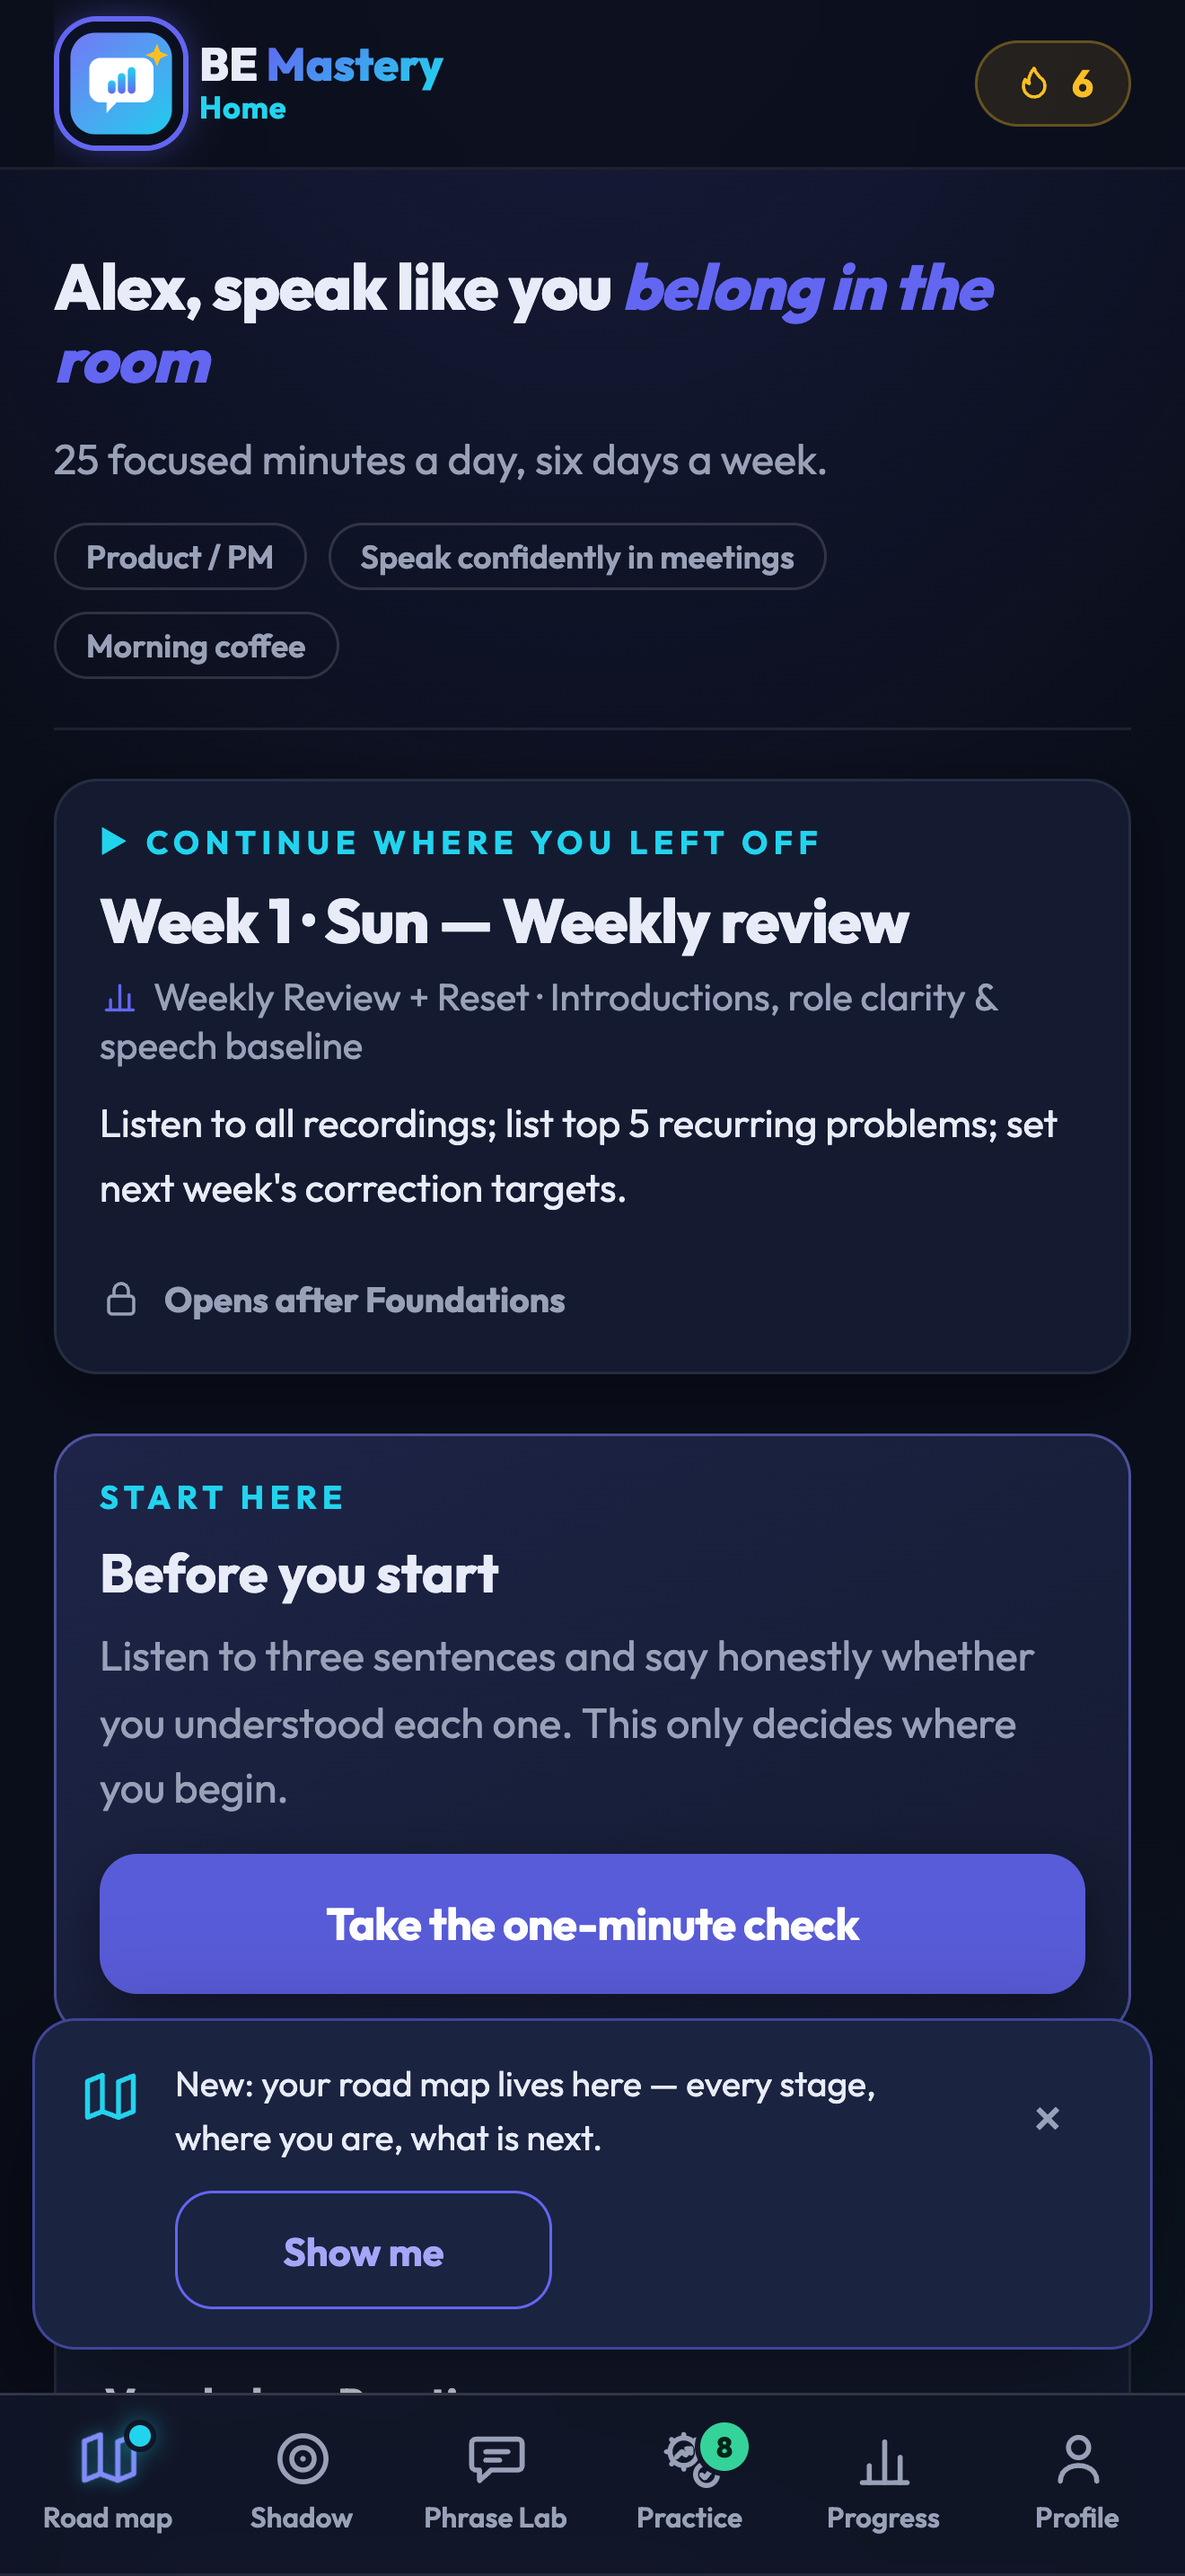
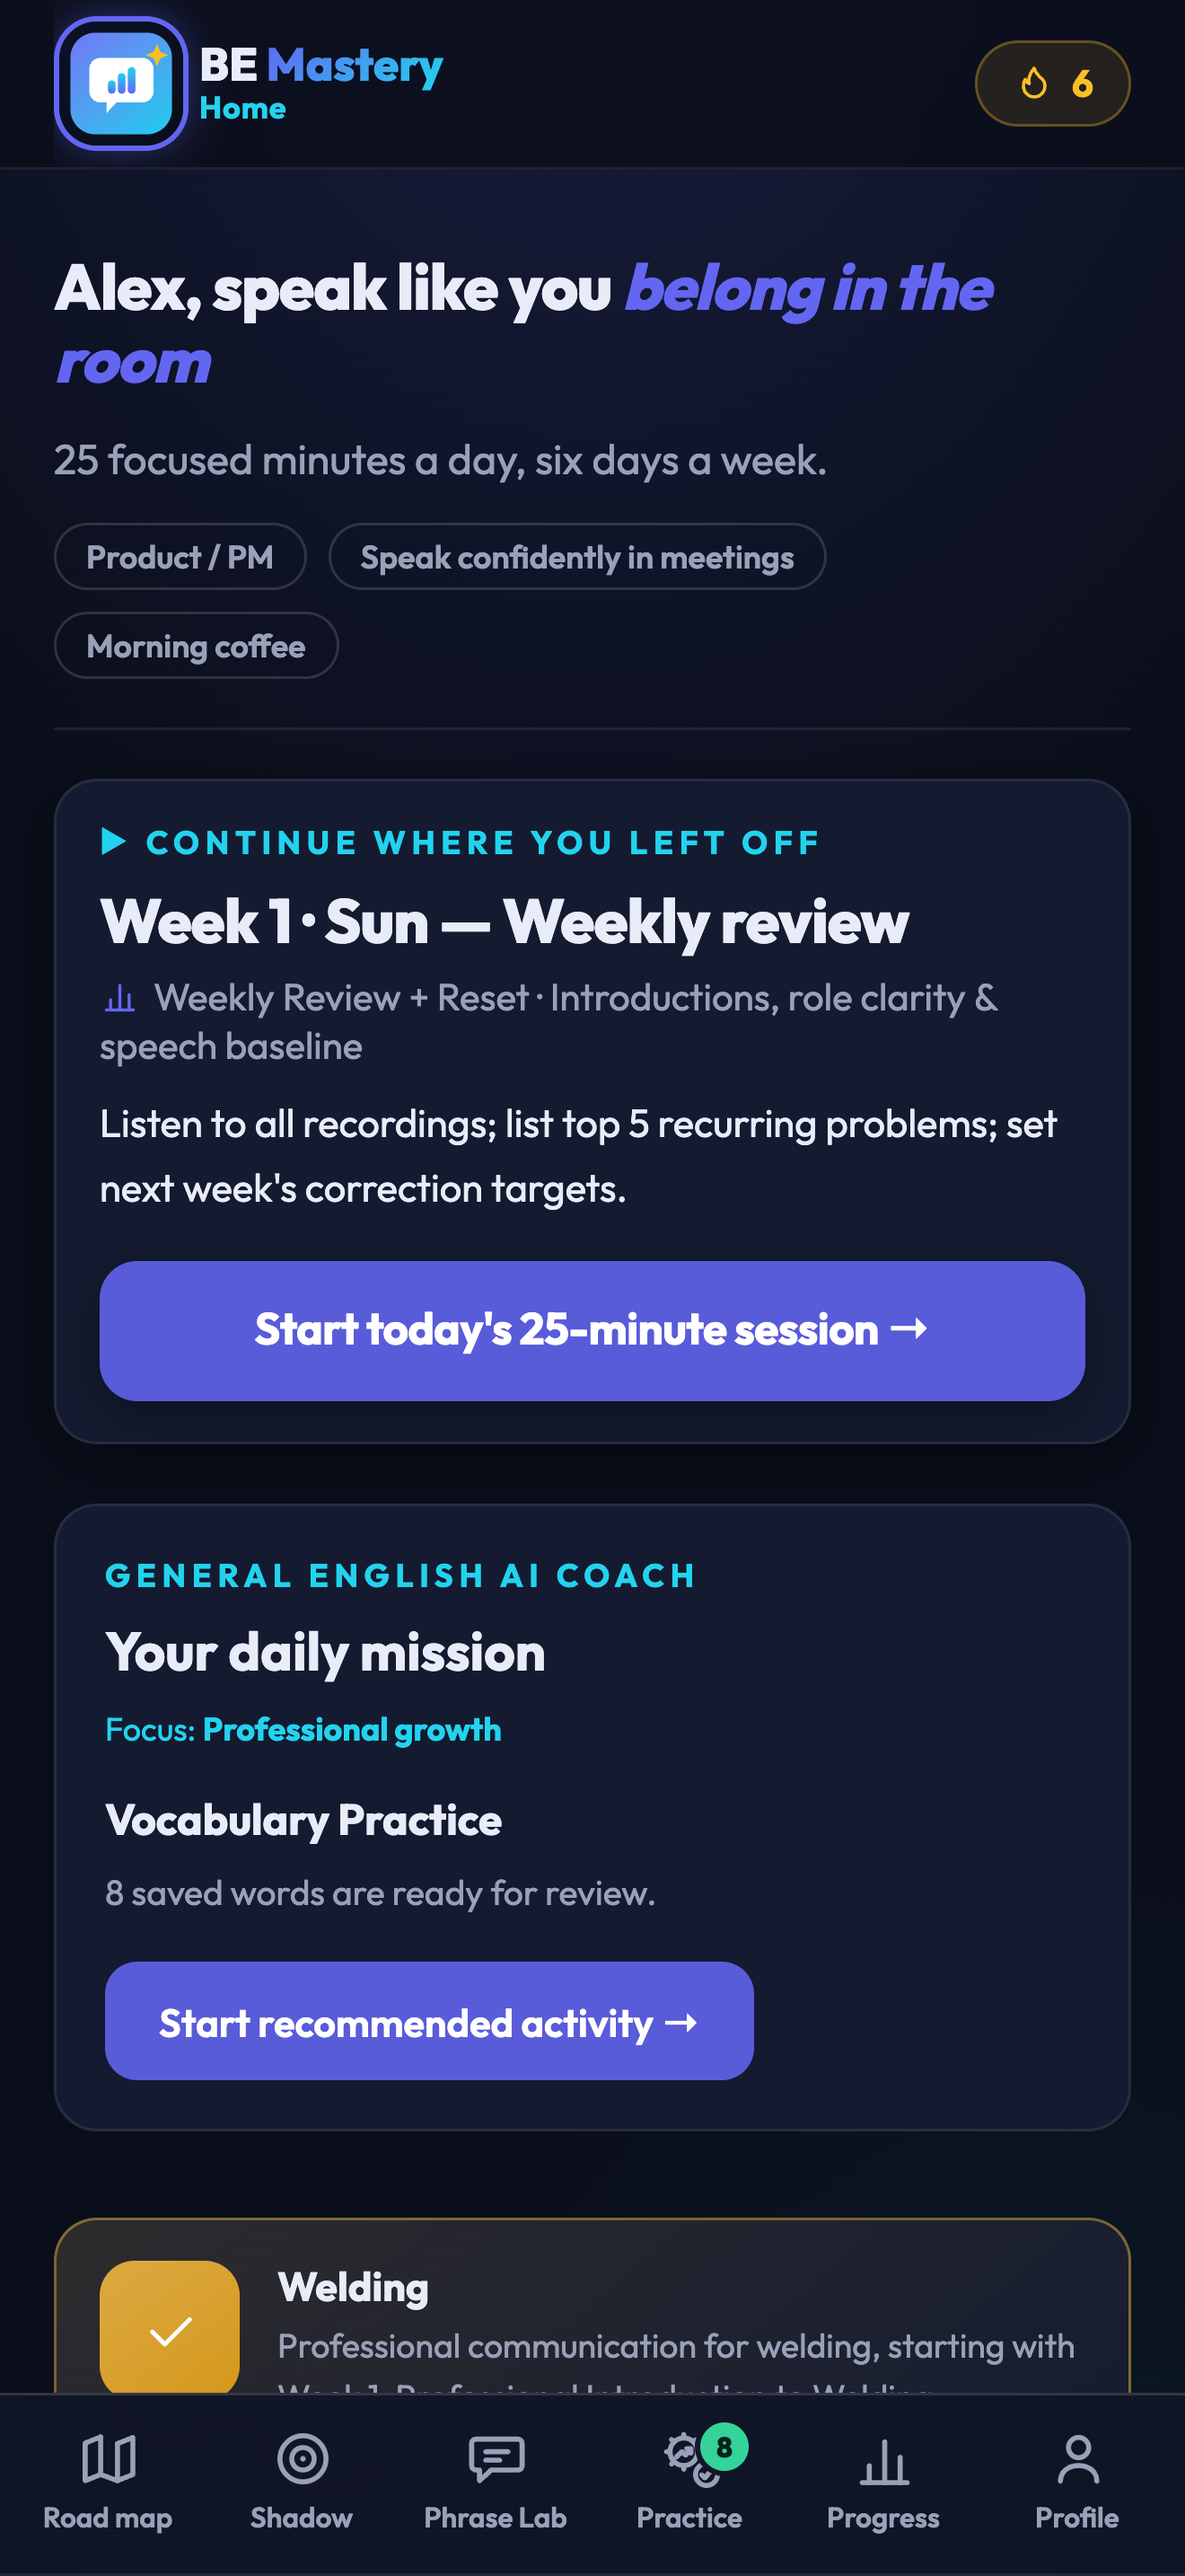
feat(ios): App Store screenshots re-taken on the release build, plus two Practice Partner scenes
scripts/store-art/shoot.js — opt-in PARTNER=1 scenes (08 find a partner,
09 candidate card) shot as real UI against a local be-partner Worker
(DEV_AUTH: "Alex" consented, "Sam" in line); the seed now passes the
placement check and marks the one-time nudges as seen (otherwise the
Practice tab and the partner page show the Foundations gate); transient
toasts are hidden before every capture. No mock data in the page: every
number comes from the app or the Worker.

mobile/ios/appstore/screenshots/iphone-6.9/ — all nine at 1320×2868 from
the release branch (01 dashboard, 02 road map, 03 phrases, 04 progress,
05 session, 06 practice with the Practice Partner card, 07 trend,
08 partner, 09 match), each checked by eye. Shadow Studio / Challenge stay
absent on purpose (third-party YouTube artwork) — SCREENSHOTS.md.

Changed region(s): [[0.0, 0.4655, 0.9939, 0.962]]

diff --git a/scripts/store-art/shoot.js b/scripts/store-art/shoot.js
@@ -47,11 +47,21 @@ const SHOTS = [
   // third-party YouTube artwork, and the one that doesn't (Trouble words) is
   // two-thirds empty. Practice fills the slot instead — it is the spaced-
   // repetition gym, which nothing else in the set shows.
-  { file: "06-practice",  go: ["practice"], settle: 600 },
+  { file: "06-practice",  go: ["practice"], settle: 4500 },
   // the trend section sits below the calendar, so scroll past both the avatar
   // block and the month grid
   { file: "07-trend",     go: ["profile"], settle: 1100, scrollTo: 1500 },
 ];
+// Practice Partner (App Store set): real UI against the local be-partner Worker
+// (wrangler dev, DEV_AUTH) — "Alex" is consented, "Sam" is in line, so the page
+// shows the presence strip and Match me finds a real candidate card. Opt-in:
+//   PARTNER=1 PARTNER_API=http://127.0.0.1:8790 node scripts/store-art/shoot.js iphone
+const PARTNER_API = process.env.PARTNER_API || "http://127.0.0.1:8790";
+const PARTNER_SHOTS = [
+  { file: "08-partner", go: ["partner"], settle: 4500 },
+  { file: "09-partner-match", go: ["partner"], settle: 1200, after: async (w) => { await w.ppMatch(); }, afterSettle: 4500 },
+];
+if (process.env.PARTNER === "1") SHOTS.push(...PARTNER_SHOTS);
 
 const seed = () => {
   const DAY = 86400000, now = Date.now();
@@ -96,11 +106,18 @@ const seed = () => {
     profile: { name: "Alex", role: "Product / PM", goal: "\u{1F3A4} Speak confidently in meetings",
                slot: "☀ Morning coffee", lang: "en", ts: now - 40 * DAY },
     dates, dayLog, startDate: iso(now - 40 * DAY),
+    // past the placement check (otherwise Practice and Practice Partner show the
+    // Foundations gate), and the partner-alerts nudge already seen — the App
+    // Store shell has no web push, so the "Turn on" row must not appear in a shot
+    fnd: { "general-english": { placed: "full", finished: true, day: 15, done: {} } },
+    pp: { nudgeDone: true },
+    rmSeen: now,   // the one-time "your road map lives here" announcement, already seen
   };
   localStorage.setItem("be12_v1", JSON.stringify(S));
   localStorage.setItem("be_theme", "dark");
   // the cloud sign-in nudge floats over the bottom of every page ~800ms in
   localStorage.setItem("be12_syncNudge", "1");
+  if (window.__partnerApi) { localStorage.setItem("be_partner_api", window.__partnerApi); localStorage.setItem("be_partner_dev_user", "alex"); }
 };
 
 (async () => {
@@ -121,6 +138,15 @@ const seed = () => {
   // app while we seed: since save() became a deferred write that flushes on
   // pagehide, an app booted before the seed would overwrite it on navigation.
   await page.goto(BASE + "/scripts/store-art/frame.html?u=about:blank");
+  if (process.env.PARTNER === "1") {
+    const api = (u, p, b) => fetch(PARTNER_API + p, { method: "POST", headers: { "x-dev-user": u, "content-type": "application/json" }, body: JSON.stringify(b) });
+    const h = await (await fetch(PARTNER_API + "/health")).json().catch(() => null);
+    if (!h || !h.dev) { console.error("PARTNER=1 needs a local be-partner (wrangler dev --env dev) at " + PARTNER_API); process.exit(1); }
+    await api("alex", "/consent", { name: "Alex", lang: "en", adult: true, goals: ["workplace"], avail: ["morning"], tz: 0 });
+    await api("sam", "/consent", { name: "Sam", lang: "en", adult: true, goals: ["workplace"], avail: ["morning"], tz: 0 });
+    await api("sam", "/interest", { track: "general-english", band: "w1-4", lang: "en", promptWeek: 1 });
+    await page.evaluate(api => { window.__partnerApi = api; }, PARTNER_API);
+  }
   await page.evaluate(seed);
 
   const url = `${BASE}/scripts/store-art/frame.html?w=${P.w}&h=${P.h}&s=${P.s}&u=${encodeURIComponent("../../index.html")}`;
@@ -142,6 +168,15 @@ const seed = () => {
     }, shot.go);
 
     await page.waitForTimeout(shot.settle || 500);
+    // toasts are transient by design (presence nudges, "N learners waiting");
+    // a capture must not freeze one over the page
+    const clearToasts = () => page.evaluate(() => { const d = document.getElementById("fr").contentWindow.document; d.querySelectorAll("#toast, .toast").forEach(t => { t.style.display = "none"; }); });
+    await clearToasts();
+    if (shot.after) {
+      await page.evaluate(async (fn) => { const w = document.getElementById("fr").contentWindow; await (new Function("w", "return (" + fn + ")(w)"))(w); }, shot.after.toString());
+      await page.waitForTimeout(shot.afterSettle || 800);
+      await clearToasts();
+    }
     if (shot.scrollTo) {
       await page.evaluate(y => document.getElementById("fr").contentWindow.scrollTo(0, y), shot.scrollTo);
       await page.waitForTimeout(350);

diff --git a/mobile/ios/appstore/SCREENSHOTS.md b/mobile/ios/appstore/SCREENSHOTS.md
@@ -1,0 +1,36 @@
+# App Store screenshots — plan and status
+
+Size: 6.9" iPhone, **1320×2868** (the one size App Store Connect requires
+today; it scales the rest). Source of every image: the real app rendered by
+`scripts/store-art/shoot.js iphone` (Playwright + Chrome, the app in a phone-
+width iframe scaled ×3), seeded with the neutral "Alex" profile. No mock-ups,
+no composited screens, no third-party artwork.
+
+| # | Screen | Status | Note |
+|---|---|---|---|
+| 1 | Learn English — dashboard | ✅ `01-dashboard.png` | Home with today's session |
+| 2 | Road map | ✅ `02-journey.png` | 12-week board |
+| 3 | Phrase Lab / Executive Polish | ✅ `03-phrases.png` | |
+| 4 | Progress calendar | ✅ `04-progress.png` | |
+| 5 | Daily practice — session | ✅ `05-session.png` | recorder + task |
+| 6 | Practice tab — tools incl. Practice Partner card | ✅ `06-practice.png` | re-shot on the release build (Practice Partner card with live counts, Shadowing Studio entry) |
+| 7 | Progress trend | ✅ `07-trend.png` | |
+| 8 | Practice Partner — find a partner (presence strip, Match me) | ✅ `08-partner.png` | `PARTNER=1` scene; real UI against a local be-partner Worker with a second learner in line |
+| 9 | Human practice — candidate card | ✅ `09-partner-match.png` | same run, after *Match me* ("Sam · Weeks 1–4 · Why: same level + same lesson", Practise live / Try a practice) |
+| — | Shadow Studio / Challenge | ❌ deliberately absent | every dense studio screen renders a third-party YouTube video or thumbnail (someone else's likeness and copyright in store marketing) — owner decision of 2026-08, unchanged |
+| — | AI feedback card | ❌ not captured | needs a live be-polish call with a real recording; capture by hand on the device if wanted (Settings → Developer → screenshot), or leave out |
+
+Regenerate:
+```
+python3 -m http.server 8765                                  # repo root
+cd backend/partner && npx wrangler dev --env dev --port 8790 # for shots 8–9 only
+PARTNER=1 PARTNER_API=http://127.0.0.1:8790 OUT_ROOT=ios-shots node scripts/store-art/shoot.js iphone
+cp playstore/ios-shots/iphone-6.9/*.png mobile/ios/appstore/screenshots/iphone-6.9/ && rm -r playstore/ios-shots
+```
+The rig seeds the placement as done and the one-time nudges as seen, hides
+transient toasts before each capture, and resets nothing outside the local
+Worker you point it at (`POST /__reset` on that dev instance first gives a
+clean line: only "Sam").
+
+All nine were re-taken on 2026-09-20 from the release branch and checked by eye.
+App Store Connect accepts 3–10 per size; upload in the order above.
